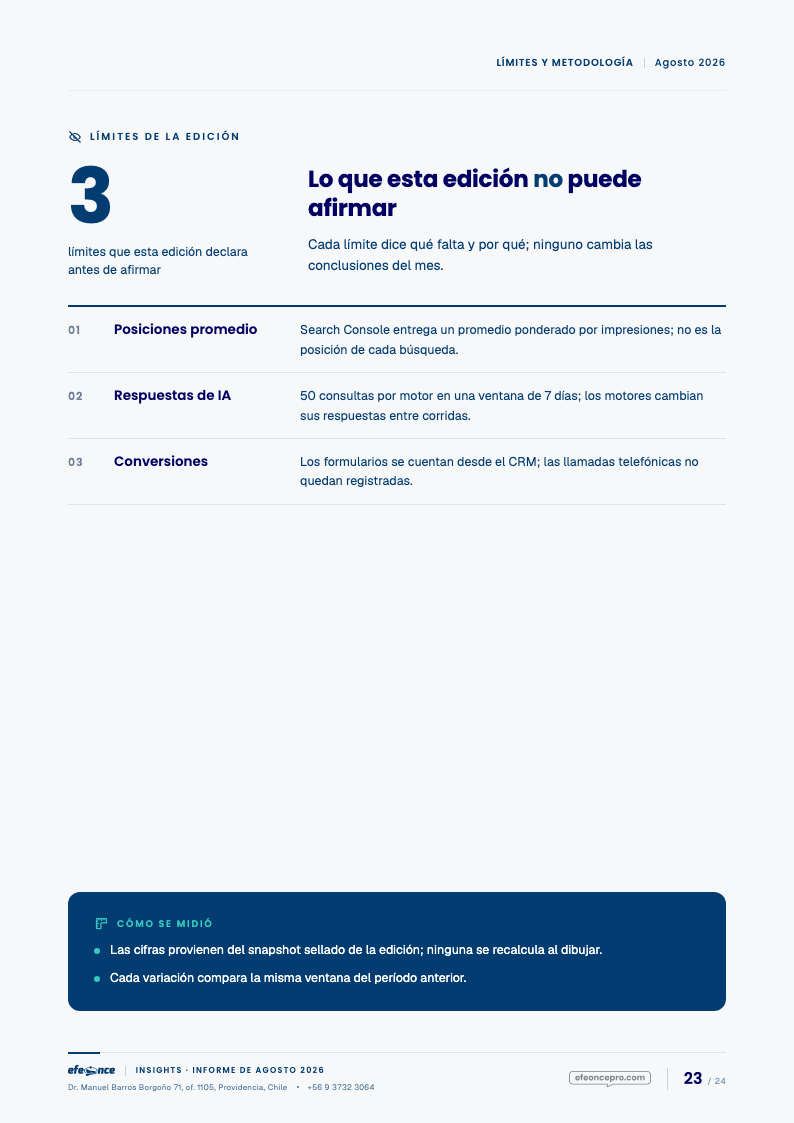
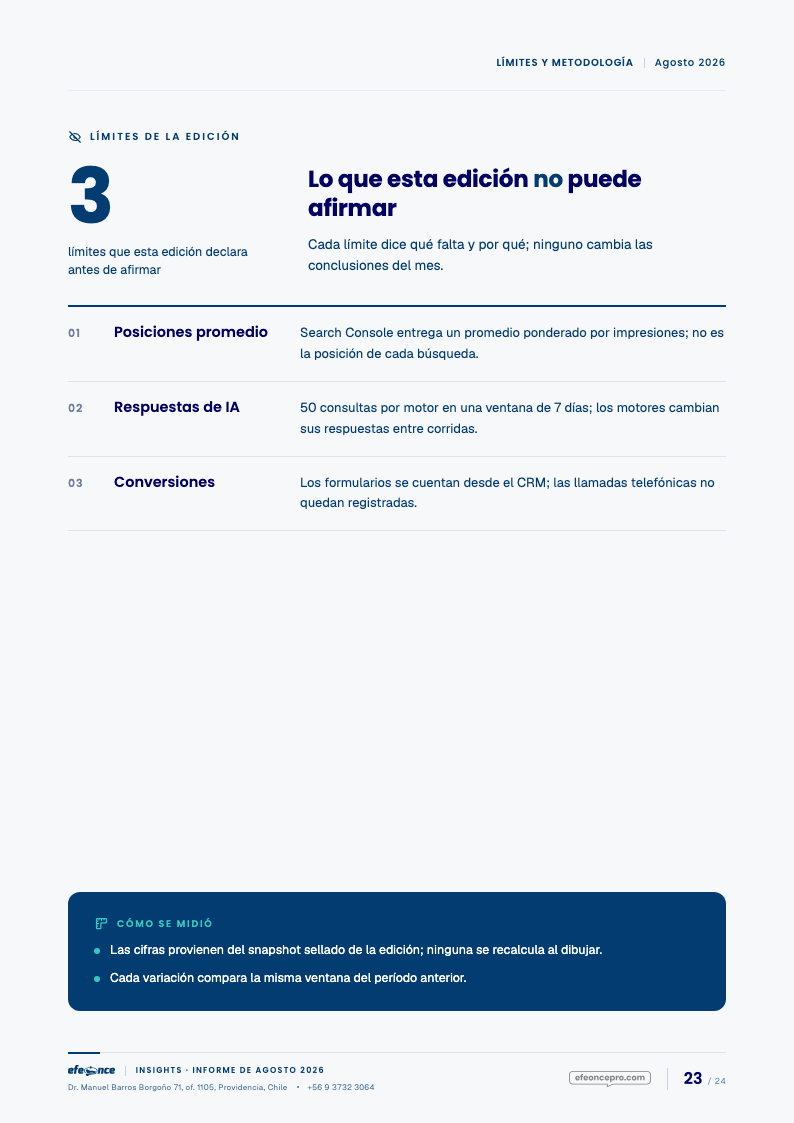
feat(insights): TASK-1889 — narrada y límites con la anatomía de las páginas aprobadas
Misma crítica que la tabla, aplicada a la narrada y los límites.

- Narrada A4 (frente a «Nuestra lectura»): se retiran el número en contorno
  decorativo y el filete redundante. La columna lateral pasa a ser útil: la
  frase clave si el plan la trae, y «En este capítulo» con las páginas de
  figura y tabla que respaldan la lectura, con folio real (segunda pasada del
  mapper). En el resumen, «En este informe» con cada capítulo y su página.
  Cierra con el panel navy cuando el plan trae la decisión (`plan.decision`,
  TASK-1888) o la lectura; sin ella, compone sin panel.
- Límites A4: la estructura ya seguía al plan; las filas ganan cuerpo.
- Deck: narrada y límites ya seguían «Lectura» y «Plan» del deck; sin cambios.

Gate visual scoped re-congelado (20/20 a 0 px, deltas declarados); 406 tests
de render y composer verdes.

Sin push.

diff --git a/src/lib/artifact-composer/catalogs/insights-report/report-narrative.html b/src/lib/artifact-composer/catalogs/insights-report/report-narrative.html
@@ -4,12 +4,12 @@
 <meta charset="utf-8" />
 <!--
   ReportNarrativePage — capítulo narrado del informe A4 (TASK-1889). Sin página propia en el canvas:
-  toma la gramática de «Nuestra lectura» aprobada — afirmación, lectura con capitular y columna lateral
-  que respalda — para que una página sin figura tenga el mismo peso que una con figura.
+  sigue la anatomía de «Nuestra lectura» aprobada — afirmación, lectura con capitular y una columna
+  lateral ÚTIL: la frase clave (si el plan la trae) y «En este capítulo», las páginas que respaldan
+  esta lectura con su folio real. Cierra con el panel navy (decisión o lectura del plan) cuando existe.
 
-  Columna lateral: la frase clave (`pullQuote`) si el plan la trae; si no, la marca del capítulo en
-  contorno (número y nombre), que ancla la página en su sección. Sirve al capítulo sin figura (se
-  narra, NUNCA se omite) y a las afirmaciones que ninguna figura tituló.
+  Sirve al resumen ejecutivo, al capítulo sin figura (se narra, NUNCA se omite) y a las afirmaciones
+  que ninguna figura tituló.
 -->
 <link rel="stylesheet" href="report-tokens.css" />
 <link rel="stylesheet" href="report-fonts.css" />
@@ -74,13 +74,7 @@
 
   .narrative-lead:empty { display: none; }
 
-  .narrative-rule { margin-top: 26px; display: flex; align-items: center; }
-
-  .narrative-rule .accent { width: 32px; height: 2px; background: var(--axis-report-role-paperAccent); }
-
-  .narrative-rule .line { flex-grow: 1; height: 1px; background: var(--axis-report-role-rule); }
-
-  .narrative-grid { margin-top: 24px; display: grid; grid-template-columns: minmax(0, 1fr) 196px; gap: 38px; align-items: start; }
+  .narrative-grid { margin-top: 28px; display: grid; grid-template-columns: minmax(0, 1fr) 196px; gap: 38px; align-items: start; }
 
   .narrative-body { display: flex; flex-direction: column; gap: 14px; }
 
@@ -124,29 +118,36 @@
     color: var(--axis-report-role-labelMuted);
   }
 
-  /* Marca del capítulo: el número en contorno de la apertura, a escala de columna. */
-  .mark { padding-top: 14px; border-top: 1px solid var(--axis-report-role-rule); display: flex; flex-direction: column; gap: 6px; }
-
-  .mark:empty { display: none; }
-
-  .mark-numeral {
-    font-family: var(--axis-report-type-display);
-    font-size: 132px;
-    line-height: 0.9;
-    font-weight: 700;
-    letter-spacing: -0.04em;
-    color: transparent;
-    -webkit-text-stroke: 1.5px rgba(var(--axis-report-role-paperAccent-rgb), 0.45);
-  }
-
-  .mark-label {
+  /* «En este capítulo»: las páginas que respaldan esta lectura, con su folio real. */
+  .aside-label {
+    margin-bottom: 4px;
     font-family: var(--axis-report-type-display);
     font-size: 9px;
     font-weight: 600;
     letter-spacing: 0.18em;
     text-transform: uppercase;
-    color: var(--axis-report-role-labelMuted);
+    color: var(--axis-report-role-paperAccent);
   }
+
+  .aside-list { display: flex; flex-direction: column; }
+
+  .aside-list:empty { display: none; }
+
+  .aside-row { display: flex; align-items: flex-start; gap: 9px; padding: 9px 0; border-top: 1px solid var(--axis-report-role-rule); }
+
+  .aside-row .folio-chip { font-size: 9px; }
+
+  .aside-text { font-size: 11.5px; line-height: 1.45; color: var(--axis-report-role-paperAccent); }
+
+  .aside-block { display: flex; flex-direction: column; }
+
+  .aside-block:empty { display: none; }
+
+  .closing-kind { display: contents; }
+
+  .closing--narrative { grid-auto-flow: column; grid-auto-columns: minmax(0, 1fr); }
+
+  .closing--narrative:empty { display: none; }
 </style>
 </head>
 <body>
@@ -166,15 +167,22 @@
 
     <h1 class="narrative-assertion" data-slot="assertion">La afirmación que ordena este capítulo</h1>
     <p class="narrative-lead" data-slot="lead">Lo que el lector debe entender antes del detalle.</p>
-    <div class="narrative-rule"><span class="accent"></span><span class="line"></span></div>
 
     <div class="narrative-grid">
       <div class="narrative-body" data-slot="paragraphs"><p>Desarrollo del capítulo.</p></div>
       <aside class="narrative-aside">
         <div class="pull" data-slot="pullQuote"><svg class="stroke-icon" width="22" height="22" viewBox="0 0 24 24" aria-hidden="true"><path d="M10 11h-4a1 1 0 0 1 -1 -1v-3a1 1 0 0 1 1 -1h3a1 1 0 0 1 1 1v6c0 2.667 -1.333 4.333 -4 5"></path><path d="M19 11h-4a1 1 0 0 1 -1 -1v-3a1 1 0 0 1 1 -1h3a1 1 0 0 1 1 1v6c0 2.667 -1.333 4.333 -4 5"></path></svg><span class="pull-text" data-slot-field="text">La frase que el lector se lleva.</span><span class="pull-source" data-slot-field="source">Lectura de Efeonce</span></div>
-        <div class="mark" data-slot="chapterMark"><span class="mark-numeral" data-slot-field="numeral">03</span><span class="mark-label" data-slot-field="label">Capítulo 03 · Del clic al negocio</span></div>
+        <div class="aside-block" data-slot="evidence"><span class="aside-label" data-slot-field="label">En este capítulo</span><div class="aside-list" data-slot-field="items"><div class="aside-row"><span class="folio-chip" data-slot-field="folio">p. 06</span><span class="aside-text" data-slot-field="text">Clics, impresiones y CTR</span></div></div></div>
       </aside>
     </div>
+
+    <div class="grow"></div>
+
+    <div class="closing closing--narrative" data-slot="closing"><div class="closing-block">
+        <span class="closing-label"><span class="closing-kind" data-slot-field="kind"><svg class="stroke-icon closing-icon--measure" width="15" height="15" viewBox="0 0 24 24" aria-hidden="true"><path d="M3 12h1m8 -9v1m8 8h1m-15.4 -6.4l.7 .7m12.1 -.7l-.7 .7"></path><path d="M9 16a5 5 0 1 1 6 0a3.5 3.5 0 0 0 -1 3a2 2 0 0 1 -4 0a3.5 3.5 0 0 0 -1 -3"></path><path d="M9.7 17h4.6"></path></svg><svg class="stroke-icon closing-icon--action" width="15" height="15" viewBox="0 0 24 24" aria-hidden="true"><path d="M5 12h14"></path><path d="M13 18l6 -6"></path><path d="M13 6l6 6"></path></svg></span><span data-slot-field="label">Para decidir en la reunión</span></span>
+        <p class="closing-text" data-slot-field="text">La decisión que el informe propone.</p>
+        <span class="closing-signature" data-slot-field="signature">Recomendación de Efeonce</span>
+      </div></div>
     <footer class="paper-foot">
       <div class="paper-foot-rule"><span class="accent"></span><span class="line"></span></div>
       <div class="paper-foot-row">

diff --git a/src/lib/efeonce-insights/render/report-mapper.ts b/src/lib/efeonce-insights/render/report-mapper.ts
@@ -64,7 +64,9 @@ const CAPACITY = {
   /** Entradas por página de índice (`entries.maxItems`). */
   indexEntries: 20,
   /** Entradas del índice de una apertura de capítulo (`contents.entries.maxItems`). */
-  chapterContents: 12
+  chapterContents: 12,
+  /** Entradas de la columna «En este capítulo» de la narrada (`evidence.items.maxItems`). */
+  asideItems: 8
 } as const
 
 /** Barras por figura: lo que declara la plantilla analítica (`figureSeries.maxItems`). */
@@ -85,7 +87,8 @@ const BUDGET = {
   reportTitle: 64,
   indexTitle: 72,
   contentsTitle: 56,
-  tableTitle: 80
+  tableTitle: 80,
+  asideTitle: 48
 } as const
 
 export interface BuildInsightReportInput {
@@ -113,7 +116,6 @@ const L = GH_INSIGHTS.catalog
 const chapterBodyPages = (
   chapter: PlanChapterV1,
   running: { runningSection: string; runningPeriod: string },
-  chapterMark: { numeral: string; label: string },
   legacyRunning: { runningChapter: string; runningPeriod: string },
   factsById: ReadonlyMap<string, EvidenceFactV1>,
   locale: string
@@ -169,7 +171,6 @@ const chapterBodyPages = (
           ...running,
           eyebrow: chapter.title,
           assertion: rejectIfLonger(headline!, BUDGET.assertion, `${chapter.chapterId}.assertion`),
-          chapterMark,
           paragraphs: paragraphs.map(p => rejectIfLonger(p, BUDGET.paragraph, `${chapter.chapterId}.paragraph`))
         }
       }
@@ -281,6 +282,18 @@ export const buildInsightReportPlanInput = ({
             ...running,
             eyebrow: GH_INSIGHTS.document.executiveSummary,
             assertion: rejectIfLonger(headline!, BUDGET.assertion, 'executiveSummary.assertion'),
+            ...(frozen.decision
+              ? {
+                  closing: [
+                    {
+                      kind: 'action',
+                      label: L.decideInMeeting,
+                      text: rejectIfLonger(frozen.decision.text, 240, 'decision'),
+                      signature: L.signature
+                    }
+                  ]
+                }
+              : {}),
             paragraphs: paragraphs.map(p => rejectIfLonger(p, BUDGET.paragraph, 'executiveSummary.paragraph'))
           }
         }
@@ -291,8 +304,7 @@ export const buildInsightReportPlanInput = ({
   frozen.chapters.forEach((chapter, index) => {
     const number = pad2(index + 1)
     const running = { runningSection: `${number} · ${chapter.title}`, runningPeriod: periodLabel }
-    const mark = { numeral: number, label: rejectIfLonger(`${L.chapter} ${number} · ${chapter.title}`, 48, `${chapter.chapterId}.mark`) }
-    const body = chapterBodyPages(chapter, running, mark, { runningChapter: chapter.title, runningPeriod: periodLabel }, factsById, frozen.locale)
+    const body = chapterBodyPages(chapter, running, { runningChapter: chapter.title, runningPeriod: periodLabel }, factsById, frozen.locale)
 
     // La apertura abre el capítulo; su índice se completa con folios reales cuando se conoce el plan.
     const opening: BodyPage = {
@@ -406,6 +418,41 @@ export const buildInsightReportPlanInput = ({
     const fits = contentEntries.length > 0 && contentEntries.length <= CAPACITY.chapterContents && contentEntries.every(e => e.title.length <= BUDGET.contentsTitle)
 
     if (fits) (opening.slots as Record<string, unknown>).contents = { label: L.inThisChapter, entries: contentEntries }
+  })
+
+  // Columna «En este capítulo» de cada página narrada: las páginas que respaldan su lectura, con folio
+  // real. En un capítulo, sus figuras y tablas; en el resumen, cada capítulo. Un título que no cabe
+  // en la columna no se recorta: queda fuera de la lista (el índice general lo lleva igual).
+  const asideItem = (title: string, folio: number) =>
+    title.length <= BUDGET.asideTitle ? [{ folio: `${L.evidencePage} ${pad2(folio)}`, text: title }] : []
+
+  sections.forEach((section, i) => {
+    const narratives = section.pages.filter(body => body.page.contentType === 'report-narrative')
+
+    if (narratives.length === 0) return
+
+    const items =
+      section.mark === L.indexMarks.summary
+        ? sections.flatMap((other, j) => (other.pages[0]?.page.contentType === 'report-chapter' ? asideItem(other.title, folioOf[j]!) : []))
+        : (() => {
+            const seen = new Map<string, number>()
+
+            section.pages.forEach((body, offset) => {
+              if (body.page.contentType === 'report-narrative' || body.page.contentType === 'report-chapter') return
+              if (body.contentsTitle && !seen.has(body.contentsTitle)) seen.set(body.contentsTitle, folioOf[i]! + offset)
+            })
+
+            return [...seen].flatMap(([title, folio]) => asideItem(title, folio))
+          })()
+
+    if (items.length === 0) return
+
+    for (const body of narratives) {
+      ;(body.page.slots as Record<string, unknown>).evidence = {
+        label: section.mark === L.indexMarks.summary ? L.inThisReport : L.inThisChapter,
+        items: items.slice(0, CAPACITY.asideItems)
+      }
+    }
   })
 
   const pages = [cover, ...indexPages, ...sections.flatMap(section => section.pages.map(body => body.page)), backCover]

diff --git a/src/lib/efeonce-insights/render/report-mapper.test.ts b/src/lib/efeonce-insights/render/report-mapper.test.ts
@@ -48,6 +48,8 @@ const chapter = (over: Partial<PlanChapterV1> = {}): PlanChapterV1 =>
     ...over
   }) as PlanChapterV1
 
+const claim0 = (text: string) => ({ claimId: text, text, factIds: [] })
+
 const plan = (over: Partial<EditorialPlanV1> = {}): EditorialPlanV1 =>
   ({
     planVersion: 'editorial_plan_v1',
@@ -101,6 +103,31 @@ describe('buildInsightReportPlanInput', () => {
     expect((opening.slots as { contents: { entries: { title: string; folio: string }[] } }).contents.entries).toEqual([
       { title: 'La visibilidad creció en el período', folio: '04' }
     ])
+  })
+
+  it('la narrada lleva en su columna las páginas que la respaldan, con folio real (TASK-1889)', () => {
+    const rows = [['/a', '10', null]]
+
+    const input = buildInsightReportPlanInput({
+      edition, report, snapshot,
+      plan: plan({
+        executiveSummary: [claim0('Resumen del mes'), claim0('Detalle')],
+        decision: claim0('Aprobar el plan de septiembre.'),
+        chapters: [chapter({ claims: [claim0('Titular'), claim0('Párrafo')], tables: [{ tableId: 't1', title: 'Páginas', columns: ['Página', 'Clics'], rows }] as never })]
+      } as never)
+    })
+
+    const narratives = input.slides.filter(s => s.contentType === 'report-narrative')
+    const summary = narratives.find(s => (s.slots as { runningSection: string }).runningSection === 'Resumen ejecutivo')!
+    const chapterNarrative = narratives.find(s => s !== summary)!
+    const tableFolio = (input.slides.findIndex(s => s.contentType === 'report-table') + 1).toString().padStart(2, '0')
+    const openingFolio = (input.slides.findIndex(s => s.contentType === 'report-chapter') + 1).toString().padStart(2, '0')
+
+    expect(chapterNarrative.slots).toMatchObject({ evidence: { label: 'En este capítulo', items: [{ folio: `p. ${tableFolio}`, text: 'Páginas' }] } })
+    expect(summary.slots).toMatchObject({
+      evidence: { label: 'En este informe', items: [{ folio: `p. ${openingFolio}`, text: 'Visibilidad orgánica' }] },
+      closing: [{ kind: 'action', label: 'Para decidir en la reunión', text: 'Aprobar el plan de septiembre.' }]
+    })
   })
 
   it('contacto, mercados y línea legal de la contraportada salen del SSOT de marca', () => {

diff --git a/src/lib/artifact-composer/catalogs/insights-report/report-limits.html b/src/lib/artifact-composer/catalogs/insights-report/report-limits.html
@@ -64,7 +64,7 @@
     grid-template-columns: 30px 170px minmax(0, 1fr);
     column-gap: 16px;
     align-items: baseline;
-    padding: 13px 0;
+    padding: 16px 0;
     border-top: 1px solid var(--axis-report-role-rule);
   }
 
@@ -74,9 +74,9 @@
 
   .limit-ordinal { font-family: var(--axis-report-type-display); font-size: 11px; font-weight: 600; letter-spacing: 0.08em; color: var(--axis-report-role-labelMuted); }
 
-  .limit-subject { font-family: var(--axis-report-type-display); font-size: 13.5px; font-weight: 600; line-height: 1.35; color: var(--axis-report-role-paperInk); }
+  .limit-subject { font-family: var(--axis-report-type-display); font-size: 14.5px; font-weight: 600; line-height: 1.35; color: var(--axis-report-role-paperInk); }
 
-  .limit-cause { font-size: 12.5px; line-height: 1.55; color: var(--axis-report-role-paperAccent); }
+  .limit-cause { font-size: 13px; line-height: 1.6; color: var(--axis-report-role-paperAccent); }
 
   .method-panel { margin-top: 28px; }
 

diff --git a/src/lib/copy/insights.ts b/src/lib/copy/insights.ts
@@ -206,6 +206,7 @@ export const GH_INSIGHTS = {
     figuresAsOf: 'Cifras al',
     chapter: 'Capítulo',
     inThisChapter: 'En este capítulo',
+    inThisReport: 'En este informe',
     measuredIn: 'Medimos la marca en',
     indexEyebrow: 'Contenido',
     indexSectionColumn: 'Sección',

diff --git a/scripts/frontend/baselines/artifact-composer/BASELINE_DELTAS.md b/scripts/frontend/baselines/artifact-composer/BASELINE_DELTAS.md
@@ -1,5 +1,14 @@
 # Artifact Composer — BASELINE_DELTAS (contrato de dos vías)
 
+## 2026-09-25 (f) — TASK-1889: narrada y límites con la misma crítica
+
+La narrada sigue la anatomía de «Nuestra lectura»: se retira el número en contorno decorativo y el filete
+redundante; la columna lateral pasa a ser útil (frase clave + «En este capítulo»/«En este informe» con folio
+real) y cierra con el panel navy cuando el plan trae decisión o lectura. Los límites ganan cuerpo por fila.
+
+- `templates-insights-report/ReportNarrativePage.png` — columna lateral útil + cierre navy opcional
+- `templates-insights-report/ReportLimitsPage.png` — filas con más cuerpo
+
 ## 2026-09-25 (e) — TASK-1889: la tabla vuelve a la anatomía de la evidencia aprobada
 
 Crítica de diseño (operador: «no se ve premium»): la versión anterior cargaba navy arriba (cabecera y
@@ -472,7 +481,7 @@ aparece está cubierto por la tabla de arriba):
 `sky/19-contraportada.png` · `sky/19-seguro.png` · `sky/20-cumplimiento.png` · `sky/21-economica.png` ·
 `sky/22-contraportada.png`
 
-<!-- manifest-digest: 161a8d1e74acc344218982a459b556503ff2c390c4398a78acb611c1926b1f58 -->
+<!-- manifest-digest: 17d7db258ca983f666fd5b90ab40e4b5dd887d5fd336d5c67e6344dabcc450c5 -->
 
 Este ledger existe porque **un rebaseline silencioso es peor que no tener gate**: el gate se
 "arregla" promoviendo el baseline y nadie se entera.
